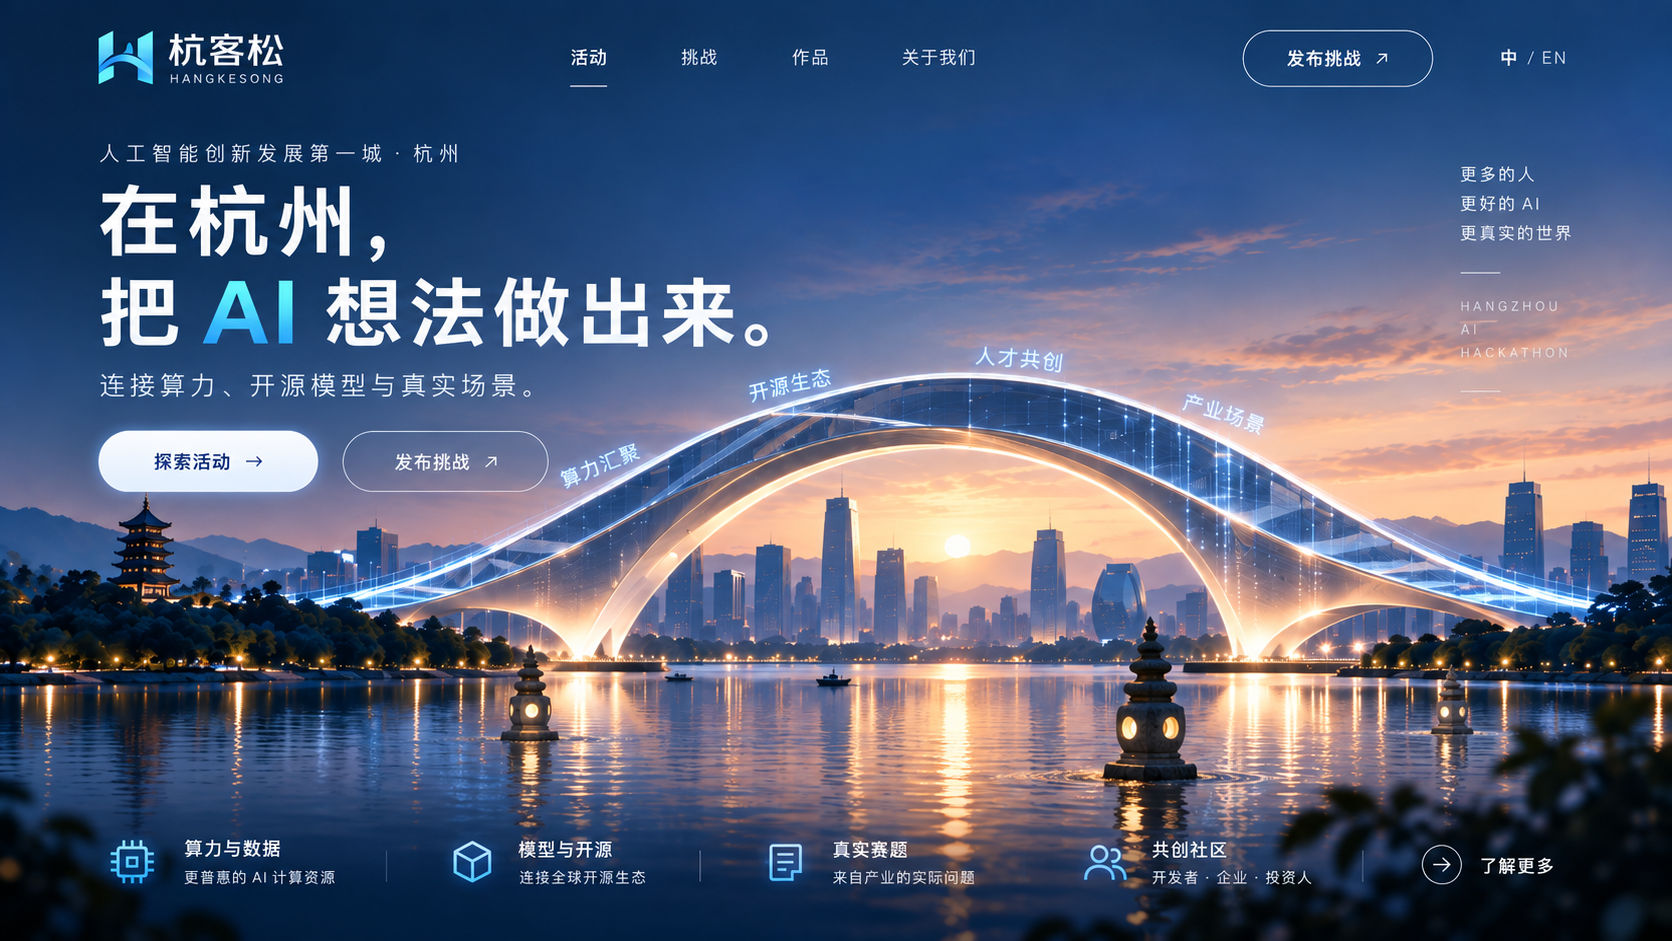
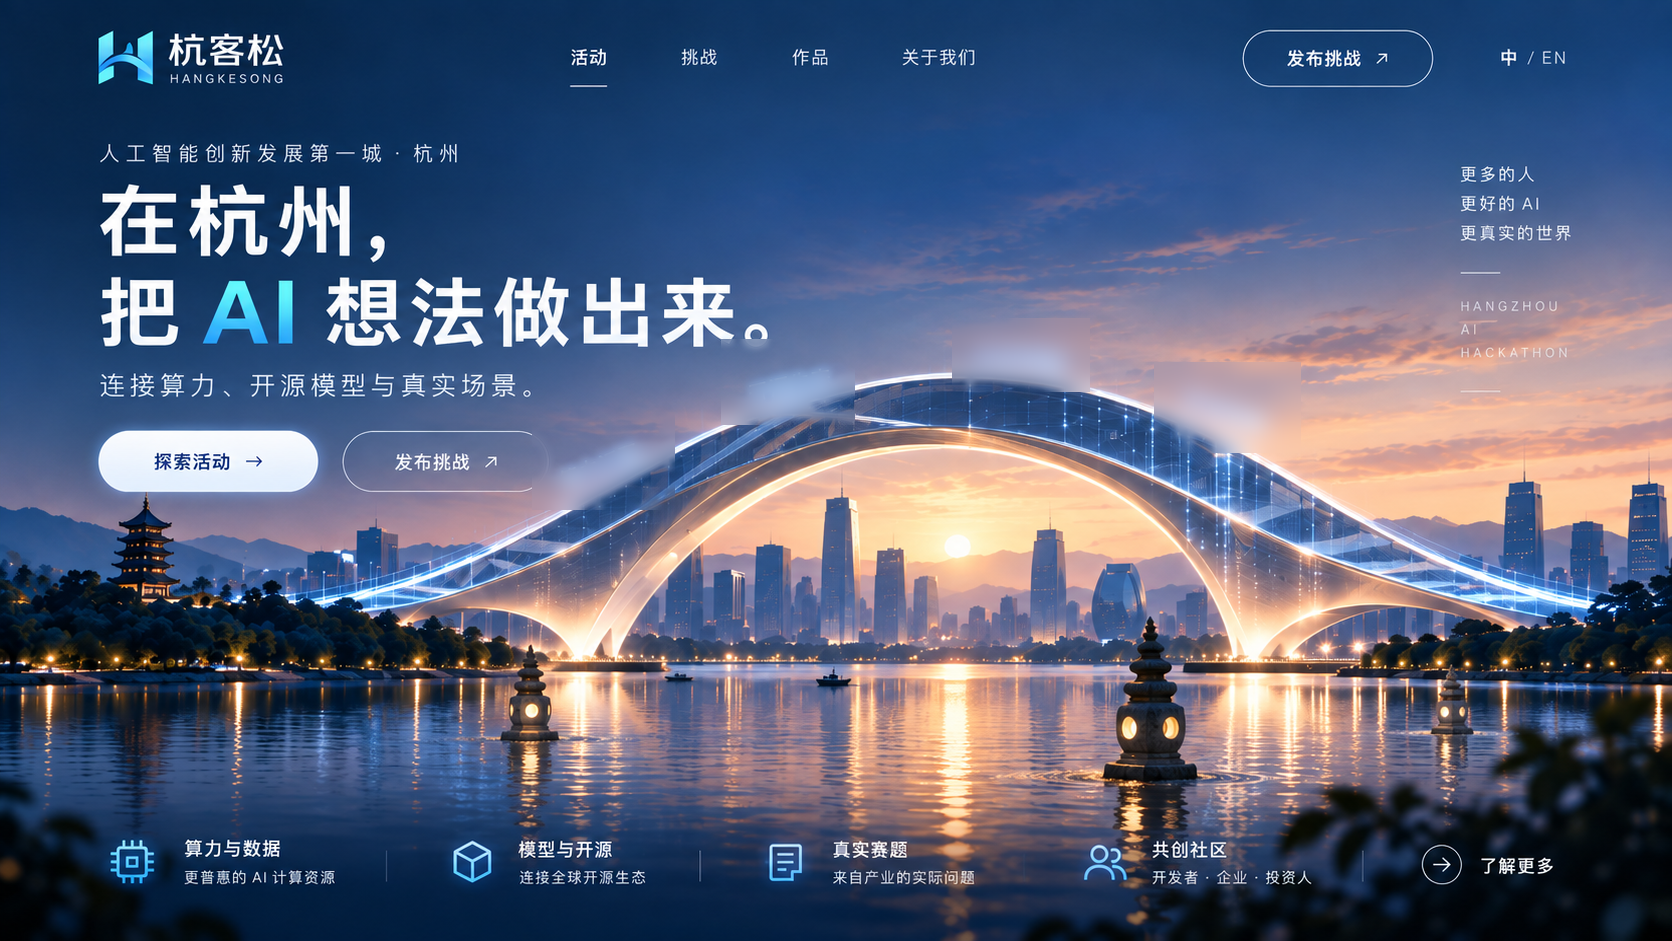
asset: remove the four bridge labels from the homepage scene
The labels were baked into the reference texture and re-projected by four
labelPatch planes. Drop the patches and derive a label-free reference from
the archived source poster (brightness-masked text removal, see
scripts/derive-clean-bridge-texture.py); the background plate still has
its own clean-region compositing and is unaffected.

diff --git a/app/scene.tsx b/app/scene.tsx
@@ -27,12 +27,6 @@ function sculptedBridge(detail:number){
  const g=new THREE.BufferGeometry();g.setAttribute("position",new THREE.Float32BufferAttribute(vertices,3));g.setAttribute("uv",new THREE.Float32BufferAttribute(uvs,2));g.setIndex(indices);g.computeVertexNormals();return g;
 }
 function bridgeMaterial(texture:THREE.Texture){return new THREE.MeshBasicMaterial({map:texture,side:THREE.DoubleSide,toneMapped:false});}
-function labelPatch(texture:THREE.Texture,x:number,y:number,w:number,h:number){
- const geometry=new THREE.PlaneGeometry(w*UNIT,h*UNIT);const uv=geometry.getAttribute("uv");
- for(let i=0;i<uv.count;i++)uv.setXY(i,(x+uv.getX(i)*w)/WIDTH,1-(y+(1-uv.getY(i))*h)/HEIGHT);
- const material=new THREE.ShaderMaterial({transparent:true,depthWrite:false,uniforms:{uMap:{value:texture}},vertexShader:`varying vec2 vUv;void main(){vUv=uv;gl_Position=projectionMatrix*modelViewMatrix*vec4(position,1.0);}`,fragmentShader:`uniform sampler2D uMap;varying vec2 vUv;void main(){vec3 c=texture2D(uMap,vUv).rgb;float a=smoothstep(.24,.68,min(c.r,c.g));gl_FragColor=vec4(c,a);#include <colorspace_fragment>}`.replace(';#include',';\n#include')});
- const mesh=new THREE.Mesh(geometry,material);mesh.position.set((x+w/2-WIDTH/2)*UNIT-PIVOT.x,(HEIGHT/2-y-h/2)*UNIT-PIVOT.y,1);return mesh;
-}
 function backgroundMaterial(reference:THREE.Texture,clean:THREE.Texture){
  return new THREE.ShaderMaterial({depthTest:false,depthWrite:false,uniforms:{uRef:{value:reference},uClean:{value:clean},uMobile:{value:0},uTime:{value:0},uRipples:{value:Array.from({length:12},()=>new THREE.Vector4(0,0,-100,0))}},
  vertexShader:`varying vec2 vUv;void main(){vUv=uv;gl_Position=projectionMatrix*modelViewMatrix*vec4(position,1.0);}`,
@@ -94,7 +88,6 @@ export default function BridgeScene(){
   reference.colorSpace=clean.colorSpace=THREE.SRGBColorSpace;reference.anisotropy=Math.min(8,renderer.capabilities.getMaxAnisotropy());
   const geometry=sculptedBridge(mobile?96:224),material=bridgeMaterial(reference);
   const sculpture=new THREE.Group();sculpture.position.copy(PIVOT);sculpture.add(new THREE.Mesh(geometry,material));scene.add(sculpture);
-  const labels=[[548,428,111,66],[737,355,102,54],[968,334,106,42],[1170,378,115,59]].map(r=>labelPatch(reference,...r as [number,number,number,number]));labels.forEach(l=>sculpture.add(l));
   const bgGeometry=new THREE.PlaneGeometry(WIDTH*UNIT,HEIGHT*UNIT),bgMaterial=backgroundMaterial(reference,clean),bg=new THREE.Mesh(bgGeometry,bgMaterial);bg.position.z=-8;bg.renderOrder=-100;scene.add(bg);
   let waterPointer:THREE.Vector2|null=null,lastSpawn=-100,rippleIndex=0,rippleCount=0;
   const ripplePositions=bgMaterial.uniforms.uRipples.value as THREE.Vector4[];
@@ -108,7 +101,7 @@ export default function BridgeScene(){
    const worldW=aspect>=WIDTH/HEIGHT?WIDTH*UNIT:HEIGHT*UNIT*aspect,worldH=aspect>=WIDTH/HEIGHT?WIDTH*UNIT/aspect:HEIGHT*UNIT;
    camera.left=-worldW/2;camera.right=worldW/2;camera.top=worldH/2;camera.bottom=-worldH/2;camera.updateProjectionMatrix();
    if(mobile){sculpture.scale.setScalar(Math.min(.43,worldW/14.8));sculpture.position.set(-.24,-1.895+1.19*sculpture.scale.x,0);}else{sculpture.scale.setScalar(1);sculpture.position.copy(PIVOT);}
-   bgMaterial.uniforms.uMobile.value=mobile?1:0;labels.forEach(l=>l.visible=!mobile);canvas.dataset.quality=mobile?"mobile-30fps-dpr1.25":"desktop-60fps-dpr1.75";dirty=true;
+   bgMaterial.uniforms.uMobile.value=mobile?1:0;canvas.dataset.quality=mobile?"mobile-30fps-dpr1.25":"desktop-60fps-dpr1.75";dirty=true;
   };
   const observer=new ResizeObserver(resize);observer.observe(host);resize();
   const visibility=new IntersectionObserver(entries=>{inView=entries[0].isIntersecting;dirty=true;},{threshold:.01});visibility.observe(host);
@@ -129,7 +122,7 @@ export default function BridgeScene(){
    bgMaterial.uniforms.uTime.value=time;renderer.render(scene,camera);
    canvas.dataset.engine="three-webgl-textured-geometry";canvas.dataset.bridgeRotation="fixed";canvas.dataset.frames=String(renderer.info.render.frame);canvas.dataset.triangles=String(renderer.info.render.triangles);canvas.dataset.paused=String(c.paused);dirty=false;
   };frame=requestAnimationFrame(render);
-  return()=>{disposed=true;cancelAnimationFrame(frame);observer.disconnect();visibility.disconnect();reduced.removeEventListener("change",motionChange);document.removeEventListener("visibilitychange",visibleChange);canvas.removeEventListener("pointerdown",down);canvas.removeEventListener("pointermove",move);canvas.removeEventListener("pointerleave",leave);canvas.removeEventListener("pointerup",up);canvas.removeEventListener("pointercancel",leave);canvas.removeEventListener("keydown",keydown);canvas.removeEventListener("webglcontextlost",lost);canvas.removeEventListener("webglcontextrestored",restored);geometry.dispose();material.dispose();labels.forEach(l=>{l.geometry.dispose();l.material.dispose();});reference.dispose();clean.dispose();bgGeometry.dispose();bgMaterial.dispose();renderer.dispose();canvas.remove();};
+  return()=>{disposed=true;cancelAnimationFrame(frame);observer.disconnect();visibility.disconnect();reduced.removeEventListener("change",motionChange);document.removeEventListener("visibilitychange",visibleChange);canvas.removeEventListener("pointerdown",down);canvas.removeEventListener("pointermove",move);canvas.removeEventListener("pointerleave",leave);canvas.removeEventListener("pointerup",up);canvas.removeEventListener("pointercancel",leave);canvas.removeEventListener("keydown",keydown);canvas.removeEventListener("webglcontextlost",lost);canvas.removeEventListener("webglcontextrestored",restored);geometry.dispose();material.dispose();reference.dispose();clean.dispose();bgGeometry.dispose();bgMaterial.dispose();renderer.dispose();canvas.remove();};
  },[]);
  return <div ref={mount} className="scene-mount" data-scene-state={status}>{status==="loading"&&<div className="scene-message" role="status">正在加载杭州的暮色…</div>}{status==="error"&&<div className="scene-message" role="alert"><strong>当前环境无法显示实时 3D</strong><span>请使用支持 WebGL 的浏览器，开启硬件加速后刷新。下方活动仍可浏览。</span></div>}</div>;
 }

diff --git a/scripts/derive-clean-bridge-texture.py b/scripts/derive-clean-bridge-texture.py
@@ -1,0 +1,49 @@
+#!/usr/bin/env python3
+"""从首页桥体贴图里修掉四个桥面标签（算力汇聚/开源生态/人才共创/产业场景）。
+
+原始带字海报存为 hangzhou-upgrade-reference-source.png，本脚本从它重新派生
+hangzhou-upgrade-reference.png（渲染层 app/scene.tsx 直接用后者做桥体贴图）。
+
+做法：在四个标签的包围盒里，按「亮且偏白」选出文字像素（桥面的青色辉光
+红通道低，白字两个通道都高，用 min(r,g) 就能分开），掩膜膨胀后用强模糊的
+周边内容回填，边缘羽化。只动文字像素，桥面纹理不受影响。
+"""
+from pathlib import Path
+
+import numpy as np
+from PIL import Image, ImageFilter
+
+ASSETS = Path(__file__).resolve().parent.parent / "public" / "assets"
+SOURCE = ASSETS / "hangzhou-upgrade-reference-source.png"
+TARGET = ASSETS / "hangzhou-upgrade-reference.png"
+
+# 四个标签的包围盒 [x, y, w, h]，与 app/scene.tsx 旧版 labelPatch 的坐标一致
+LABELS = [(548, 428, 111, 66), (737, 355, 102, 54), (968, 334, 106, 42), (1170, 378, 115, 59)]
+PAD = 16          # 包围盒外扩，保证字形完整落进处理区
+THRESHOLD = 132   # min(r,g) 超过它算文字像素
+DILATE = 7        # 掩膜膨胀（MaxFilter 核径，奇数）
+FEATHER = 2.6     # 掩膜边缘羽化
+BLUR = 10         # 回填用的模糊半径
+
+
+def main() -> None:
+    if not SOURCE.exists():
+        raise SystemExit(f"缺少原始贴图 {SOURCE}")
+    img = Image.open(SOURCE).convert("RGB")
+    for x, y, w, h in LABELS:
+        box = (x - PAD, y - PAD, x + w + PAD, y + h + PAD)
+        region = img.crop(box)
+        pixels = np.asarray(region).astype(int)
+        mask = (np.minimum(pixels[:, :, 0], pixels[:, :, 1]) > THRESHOLD).astype("uint8") * 255
+        mask_image = Image.fromarray(mask).filter(ImageFilter.MaxFilter(DILATE))
+        fill = region.filter(ImageFilter.GaussianBlur(BLUR))
+        soft = mask_image.filter(ImageFilter.GaussianBlur(FEATHER))
+        cleaned = Image.composite(fill, region, soft)
+        img.paste(cleaned, box[:2])
+        print(f"label @({x},{y}) 文字像素 {int((np.asarray(mask_image) > 0).sum())}")
+    img.save(TARGET)
+    print(f"已写出 {TARGET}")
+
+
+if __name__ == "__main__":
+    main()

diff --git a/design-qa.md b/design-qa.md
@@ -324,3 +324,14 @@ final result: passed
 - [x] Source-versus-render comparison and correction loop
 - [x] Demo/placeholder labeling
 - [x] Type and production-build checks
+
+## 2026-09-26 · 移除首页桥面标签
+
+- 用户要求去掉桥上的「算力汇聚 / 开源生态 / 人才共创 / 产业场景」四个标签。
+- 标签有两层来源：`scene.tsx` 里的四块 labelPatch 贴片 + 参考图贴图里烙的字
+  （hangzhou-upgrade-background.png 在桥面区域同样带字，不能当无字版用）。
+- 处理：删除 labelPatch 及其 resize/dispose 引用；新增
+  `scripts/derive-clean-bridge-texture.py`，从留档的
+  `hangzhou-upgrade-reference-source.png`（原始带字海报）按亮度掩膜
+  （min(r,g)>132，膨胀+羽化，模糊回填）派生无字版 reference.png。
+- 验证：本地 WebGL 渲染 scene ready，桥面无字、无接缝；底部功能条不受影响。
